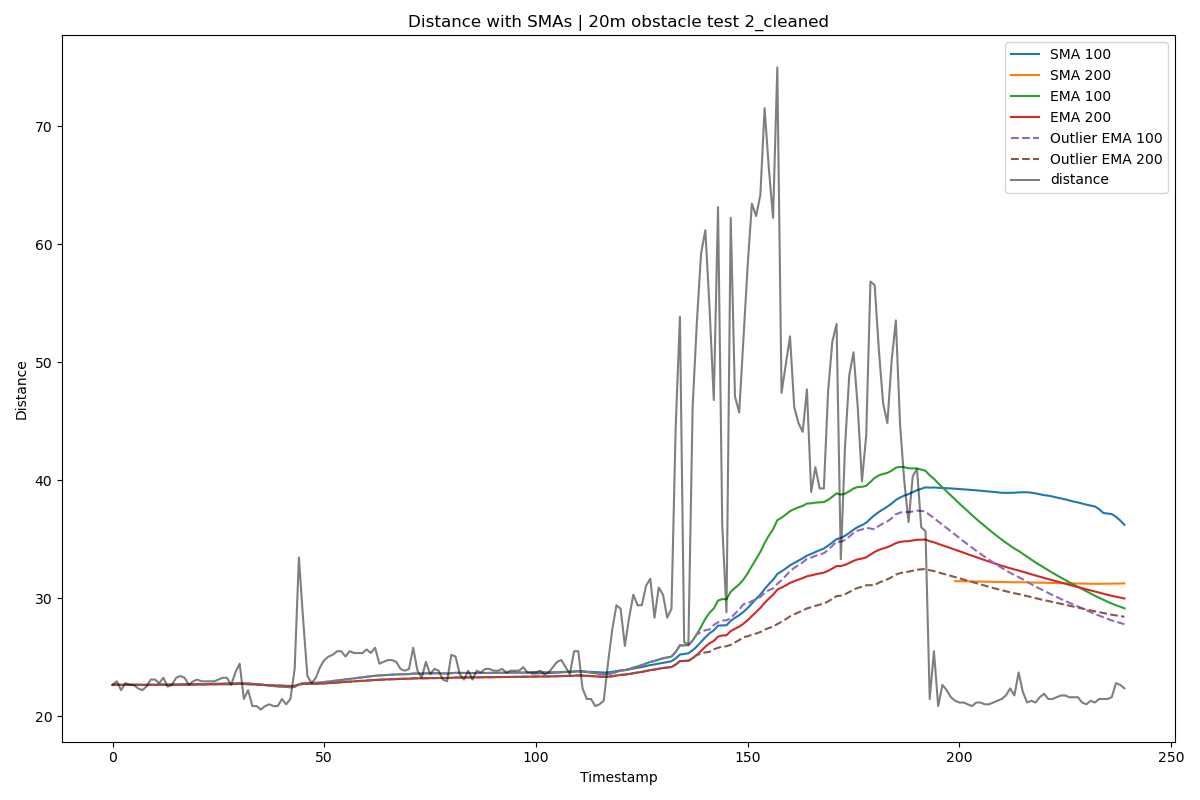
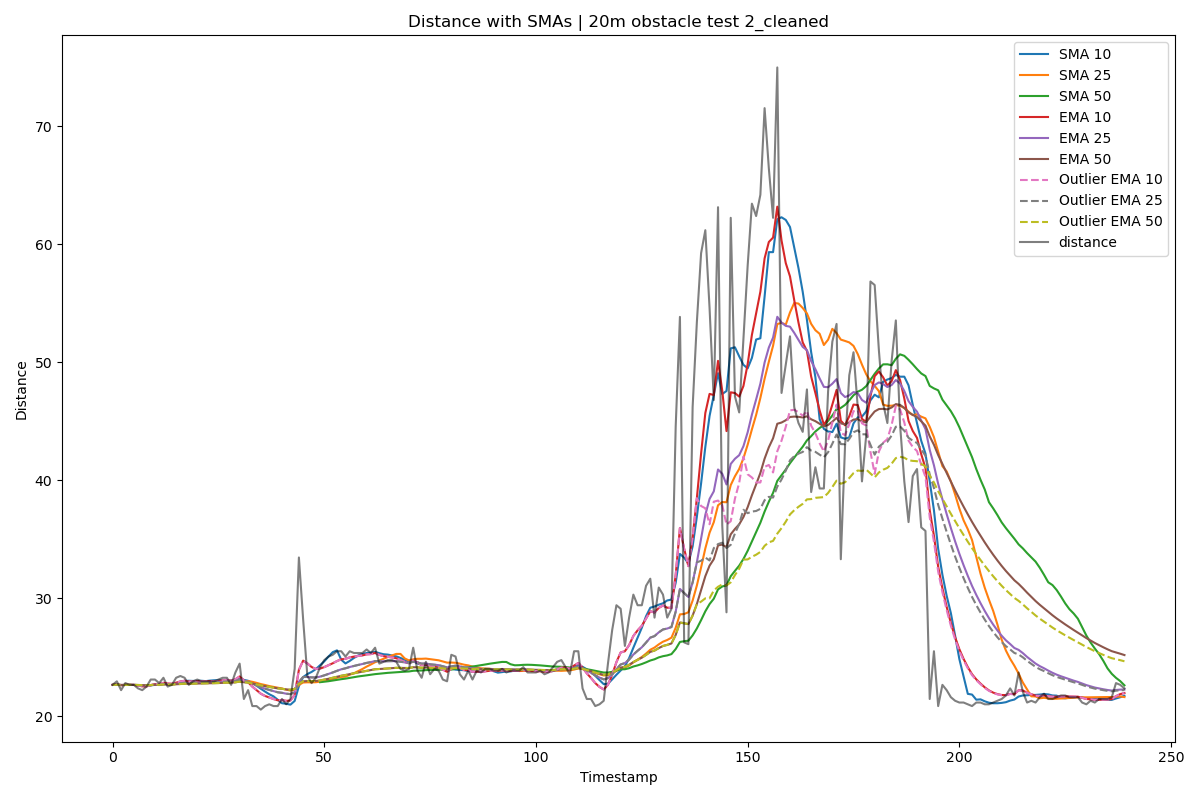
more smoothing and animations

Changed region(s): [[0.0925, 0.2812, 0.9558, 0.875], [0.8325, 0.0625, 0.9867, 0.3125], [0.8942, 0.625, 0.925, 0.6562]]

diff --git a/smoothing.py b/smoothing.py
@@ -199,7 +199,7 @@ for filename in os.listdir(directory):
     if filename.endswith('.log') or filename.endswith('.txt'):
         filepath = os.path.join(directory, filename)
         cleaned_filename, presses = clean_data(filepath)
-        plot_smoothed_data(cleaned_filename, [100, 200], param='distance', plot=False)
+        plot_smoothed_data(cleaned_filename, [10, 25, 50], param='distance', plot=False)
 
 
 # Example usage

diff --git a/animationtest.py b/animationtest.py
@@ -1,0 +1,18 @@
+from matplotlib import pyplot as plt
+
+x = []
+y = []
+
+for i in range(100):
+    x.append(i)
+    y.append(i)
+
+    # Mention x and y limits to define their range
+    plt.xlim(0, 100)
+    plt.ylim(0, 100)
+    
+    # Plotting graph
+    plt.plot(x, y, color = 'green')
+    plt.pause(0.01)
+
+plt.show()
